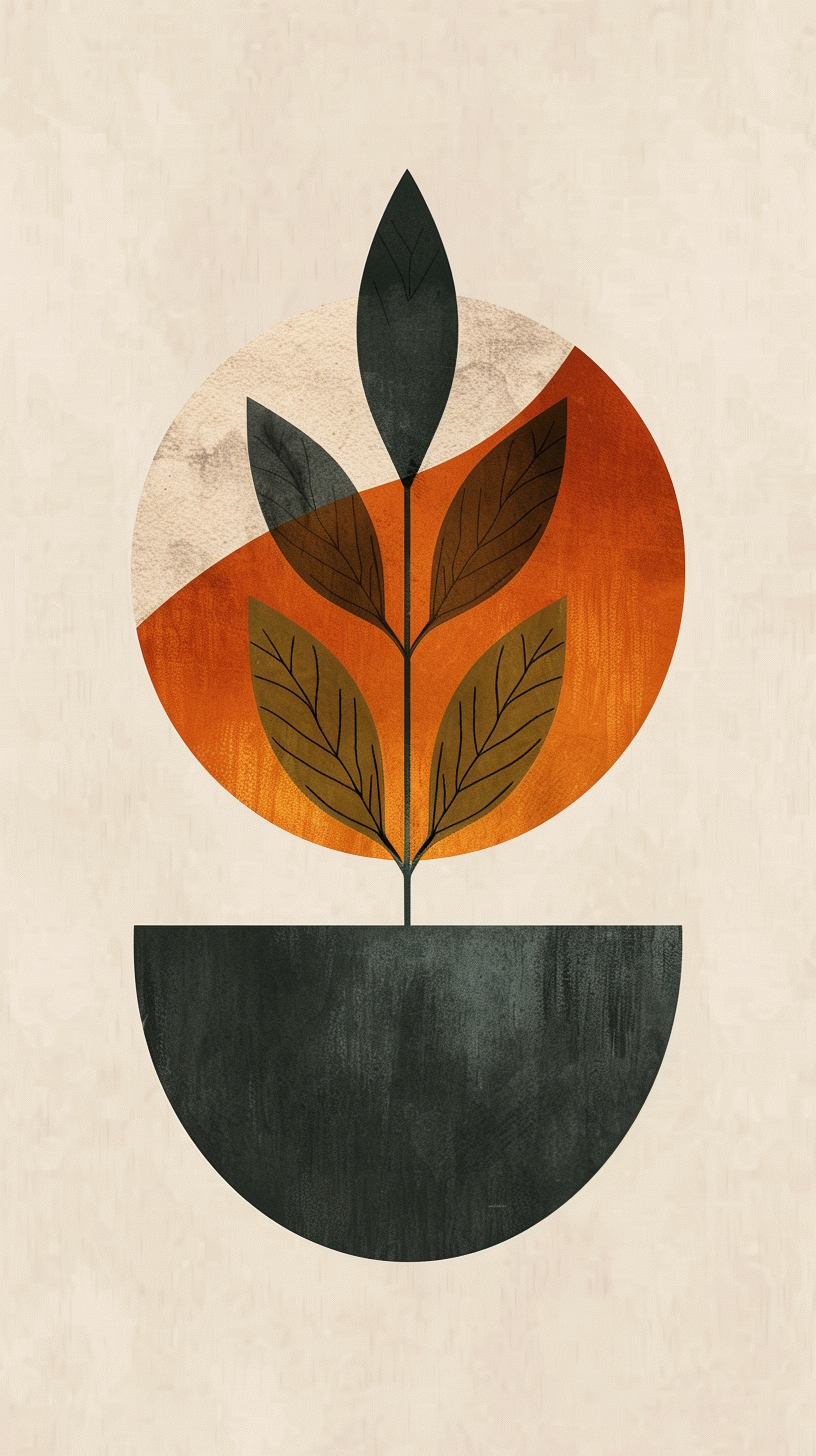
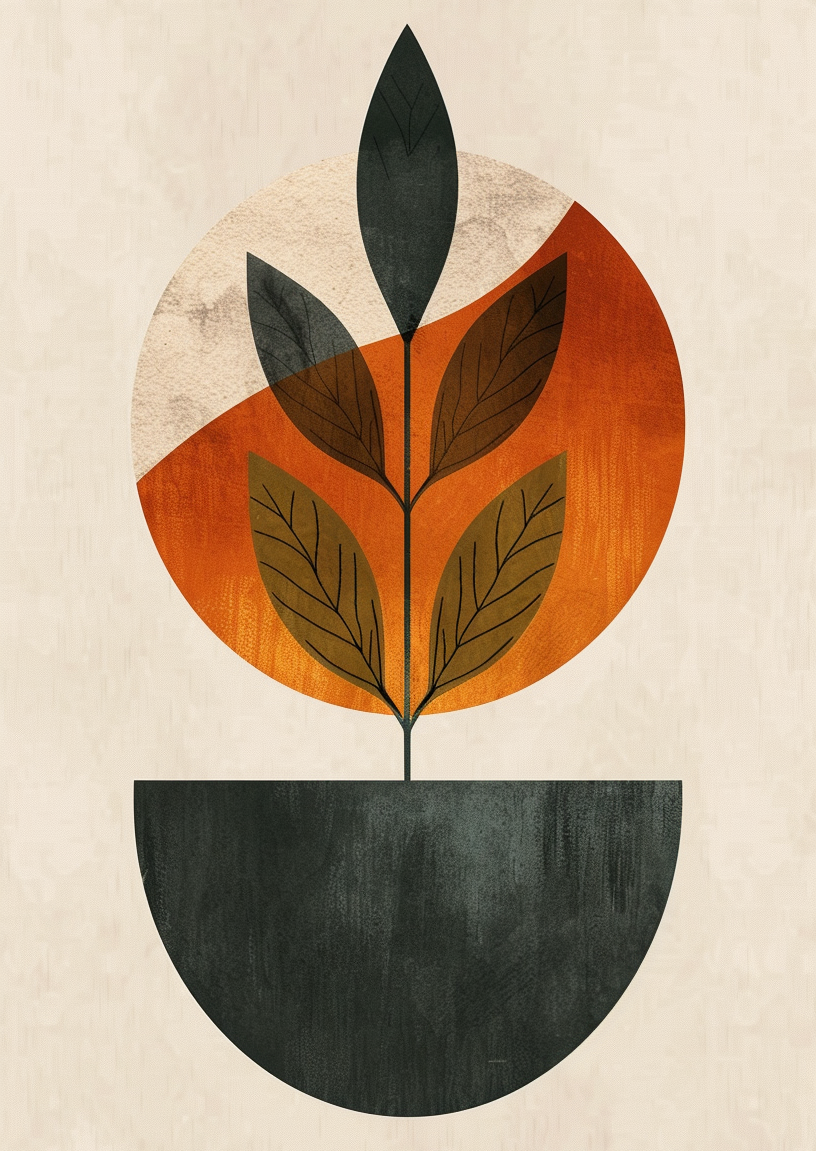
sign-in img

Changed region(s): [[0.1532, 0.0, 0.8578, 0.9731], [0.7659, 0.4865, 0.7966, 0.5169]]

diff --git a/Itenium.SkillForge/frontend/src/pages/SignIn.tsx b/Itenium.SkillForge/frontend/src/pages/SignIn.tsx
@@ -70,15 +70,15 @@ export function SignIn() {
   };
 
   return (
-    <div className="relative container grid h-svh flex-col items-center justify-center lg:max-w-none lg:grid-cols-2 lg:px-0">
+    <div className="relative container grid h-svh flex-col items-center justify-center lg:max-w-none lg:grid-cols-[40%_1fr] lg:px-0">
       {/* Left side - Image panel */}
-      <div className="relative hidden h-full flex-col bg-sidebar p-10 text-sidebar-foreground lg:flex">
+      <div className="relative hidden h-full flex-col bg-[#EFE3D3] p-10 text-sidebar-foreground lg:flex">
         <img
           src="/login-bg.png"
           alt="Login background"
-          className="absolute inset-0 h-full w-full object-cover"
+          className="absolute inset-0 h-full w-full object-contain object-center"
         />
-        <div className="absolute inset-0 bg-black/60" />
+        <div className="absolute inset-0 bg-gradient-to-t from-black/70 via-black/30 to-black/20" />
         <div className="relative z-20 flex items-center gap-2 text-lg font-medium">
           <GraduationCap className="size-6" />
           <span>Itenium SkillForge</span>
